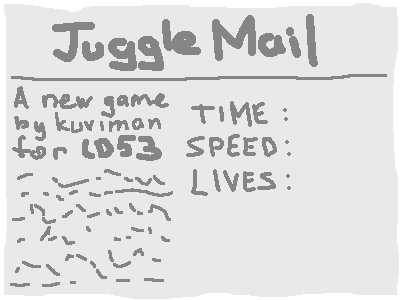
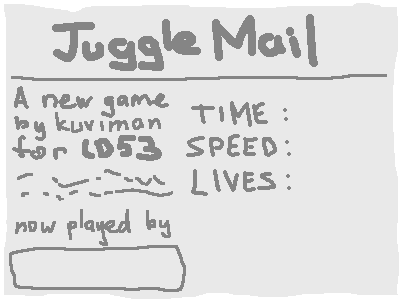
Changing player's name WIP

Changed region(s): [[0.0, 0.66, 0.48, 0.99]]

diff --git a/src/main_menu.rs b/src/main_menu.rs
@@ -8,8 +8,10 @@ pub struct MainMenu {
     time_scale: usize,
     game_time: usize,
     lives: usize,
+    name: String,
 
     transition: Option<geng::state::Transition>,
+    name_aabb: Aabb2<f64>,
 }
 
 impl MainMenu {
@@ -22,6 +24,8 @@ impl MainMenu {
             game_time: 0,
             lives: 0,
             transition: None,
+            name: "you".to_owned(),
+            name_aabb: Aabb2::ZERO,
         }
     }
 }
@@ -35,6 +39,28 @@ impl geng::State for MainMenu {
             .window()
             .set_cursor_type(geng::CursorType::Default);
         ugli::clear(framebuffer, Some(Rgba::BLACK), None, None);
+    }
+
+    fn handle_event(&mut self, event: geng::Event) {
+        match event {
+            geng::Event::KeyDown { key } => {
+                if key == geng::Key::Backspace {
+                    self.name.pop();
+                }
+            }
+            geng::Event::Text(text) => {
+                self.name.push_str(&text);
+            }
+            geng::Event::TouchStart(geng::Touch { position, .. })
+            | geng::Event::MouseDown { position, .. } => {
+                if self.name_aabb.contains(position) {
+                    self.geng.window().start_text_input();
+                } else {
+                    self.geng.window().stop_text_input();
+                }
+            }
+            _ => {}
+        }
     }
 
     fn ui<'a>(&'a mut self, cx: &'a geng::ui::Controller) -> Box<dyn geng::ui::Widget + 'a> {
@@ -76,12 +102,19 @@ impl geng::State for MainMenu {
                 },
             ))));
         }
+        let name = ui::TextInput::new(
+            &mut self.name_aabb,
+            self.geng.clone(),
+            &self.assets.font,
+            self.name.clone(),
+        );
         stack![
             ui::TextureWidget::new(&self.assets.main_menu),
             game_time.place(300, 95),
             time_scale.place(300, 133),
             lives.place(300, 170),
             play.place(180, 220),
+            name.fixed_size(vec2(160.0, 16.0)).place(20, 260),
         ]
         .center()
         .boxed()

diff --git a/src/ui.rs b/src/ui.rs
@@ -174,3 +174,47 @@ impl geng::ui::Widget for Text<'_> {
         );
     }
 }
+
+pub struct TextInput<'a> {
+    geng: Geng,
+    font: &'a Font,
+    text: String,
+    aabb: &'a mut Aabb2<f64>,
+}
+
+impl<'a> TextInput<'a> {
+    pub fn new(aabb: &'a mut Aabb2<f64>, geng: Geng, font: &'a Font, text: String) -> Self {
+        Self {
+            aabb,
+            geng,
+            font,
+            text,
+        }
+    }
+}
+
+impl geng::ui::Widget for TextInput<'_> {
+    fn calc_constraints(
+        &mut self,
+        _children: &geng::ui::ConstraintsContext,
+    ) -> geng::ui::Constraints {
+        default()
+    }
+    fn draw(&mut self, cx: &mut geng::ui::DrawContext) {
+        *self.aabb = cx.position;
+        self.geng.draw2d().draw2d(
+            cx.framebuffer,
+            &geng::PixelPerfectCamera,
+            &draw2d::Quad::new(cx.position.map(|x| x as f32), Rgba::RED),
+        );
+        self.font.draw(
+            cx.framebuffer,
+            &geng::PixelPerfectCamera,
+            &self.text,
+            "#858585".try_into().unwrap(),
+            mat3::translate(vec2(cx.position.center().x, cx.position.min.y).map(|x| x as f32))
+                * mat3::scale_uniform(cx.position.height() as f32)
+                * mat3::translate(-vec2(self.text.len() as f32 / 2.0, 0.0)),
+        );
+    }
+}
